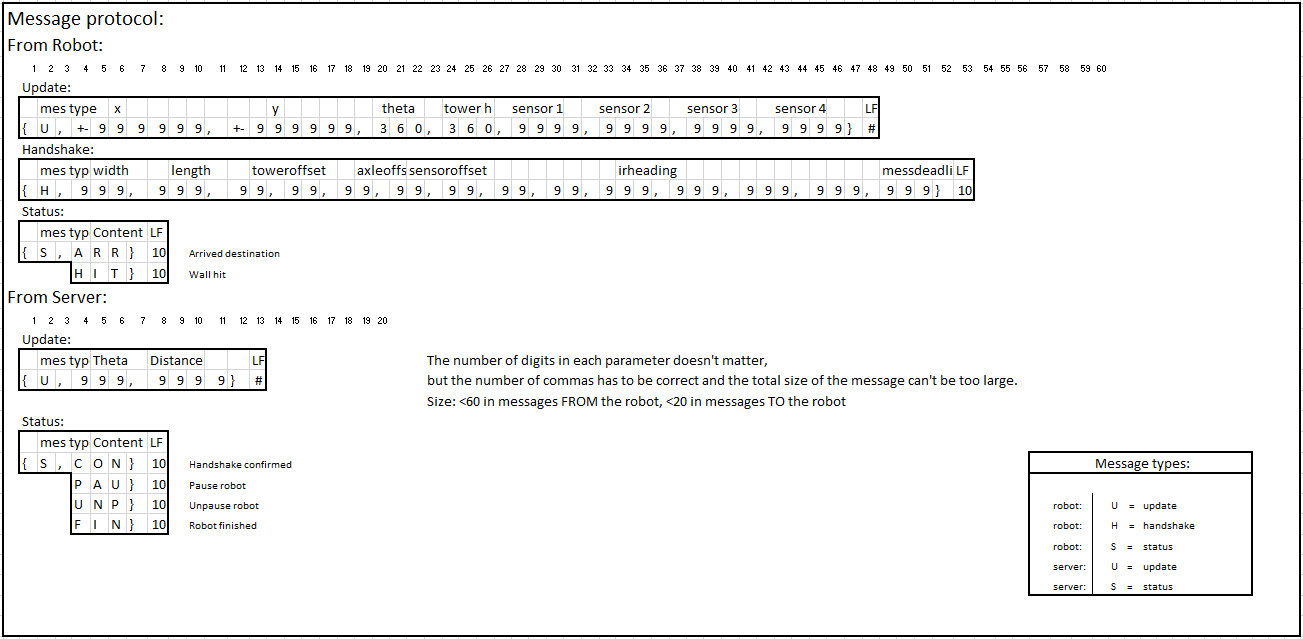
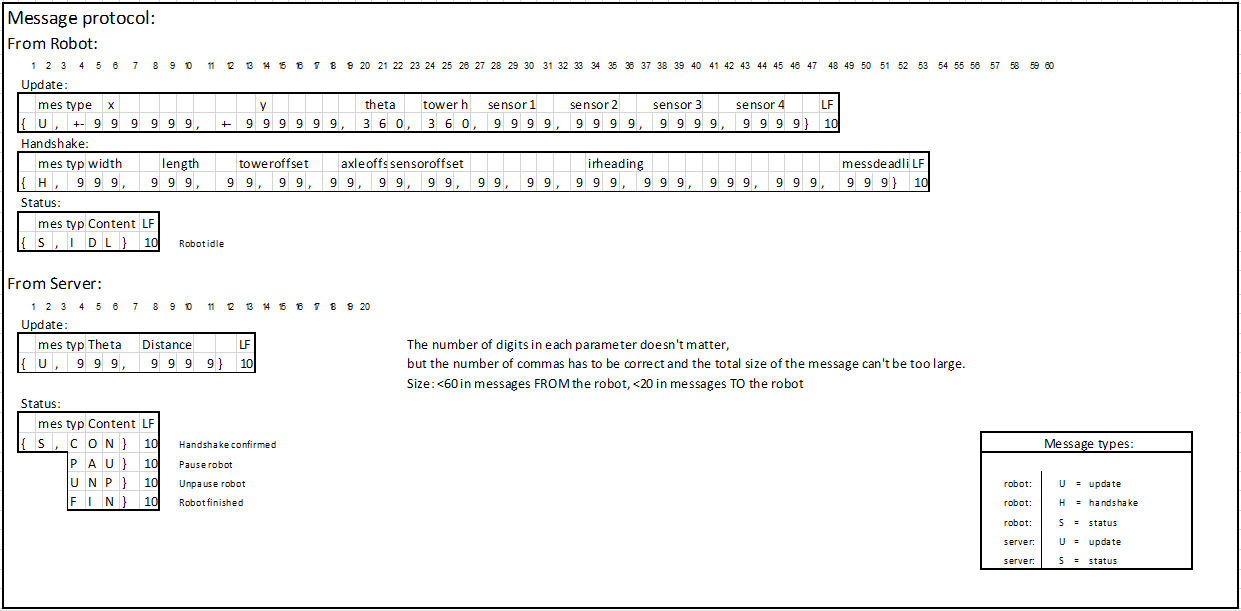
message protocol

diff --git a/Chapters/6_WirelessCommunication/2_MessageProtocol.tex b/Chapters/6_WirelessCommunication/2_MessageProtocol.tex
@@ -1,5 +1,5 @@
 \section{Creating the Message Protocol}
-When implementing the communication between the physical robots and the server software, the groups realized the need for a general message protocol. The message protocol should be complex enough to consist of different message types, such as updates and handshakes, and variables, such as parameters for physical size, as well as being simple enough to be easy to understand and implement in software.
+When implementing the communication between the physical robots and the server software, the groups realised the need for a general message protocol. The message protocol should be complex enough to consist of different message types, such as updates and handshakes, and variables, such as parameters for physical size, as well as being simple enough to be easy to understand and implement in software.
 
 The groups sat down and discussed which types of messages the protocol should implement, and what the message types should include of parameters. The message types and parameters were listed as shown in Table \ref{tab:messprotfromrob} and Table \ref{tab:messprotfromser}:
 
@@ -7,31 +7,31 @@ The groups sat down and discussed which types of messages the protocol should im
 \begin{center}
  \begin{tabular}{|l | l|} 
  \hline
- Message type       &	Parameters \\
+ Message type       &    Parameters \\
  \hline
  \hline
  From Robot: & \\
  \hline
  Handshake          &   Message type \\
- 					&	Physical robot width and length  \\
+                     &    Physical robot width and length  \\
                     &   Tower offset from center of the robot\\
-                    &	Axle offset lengthwise \\
-                    &	Sensor offset from tower center \\
-                    &	Initial sensor heading \\
+                    &    Axle offset lengthwise \\
+                    &    Sensor offset from tower center \\
+                    &    Initial sensor heading \\
  \hline
- Update  			&   Message type \\
+ Update              &   Message type \\
                     &   Robot position (x,y) \\
                     &   Orientation \\
                     &   Tower heading \\
-                    &	Sensor values \\
+                    &    Sensor values \\
  \hline
- Status		        &   Message type \\
- 					&	Destination arrived \\
+ Status                &   Message type \\
+                     &    Destination arrived \\
                     &   Wall hit \\
  \hline
  \end{tabular}
 \end{center}
-\caption{Criterion for functionality in the \acrshort{gui}}
+\caption{Sketched list over messages from the Robot}
 \label{tab:messprotfromrob}
 \end{table}
 
@@ -44,27 +44,29 @@ The groups sat down and discussed which types of messages the protocol should im
  \hline
  From Server: & \\
  \hline
- Update  			&   Message type \\
+ Update              &   Message type \\
                     &   Orientation \\
                     &   Distance \\
  \hline
- Status		        &   Hanshake confirmed \\
+ Status                &   Hanshake confirmed \\
                     &   Pause robot \\
                     &   Unpause robot \\
                     &   Robot finished \\
  \hline
 \end{tabular}
 \end{center}
-\caption{Criterion for functionality in the \acrshort{gui}}
+\caption{Sketched list over messages from the Server}
 \label{tab:messprotfromser}
 \end{table}
 
-At first the group developed a message protocol using JSON-structure. The benefit of using JSON to structure a message protocol, is that it is easy to understand just by reading the message as well as the order of the parameters does not have to be specified. The update message from server in JSON-structure was defined as:
+At first, the group developed a message protocol using JSON-structure. The benefit of using JSON to structure a message protocol is that it is easy to understand just by reading the message as well as the order of the parameters does not have to be specified. The update message from server in JSON-structure was defined as:
 
 \{``Update'':[\{``Orientation'':``60''\},\{``Distance'':``100''\}]\}
 
-Due to some problems with the nRF51-dongle, see elaboration in Section \ref{sec:wirelesscomresult}, the group converted the message protocol from JSON-structure to a more compact designed structure. The update message was then defined as:
+Due to some problems with the nRF51-server software not being able to receive messages with a size greater than 60 Bytes, and the nrf51-peripheral not being able to receive messages greater than 20 Bytes, the group converted the message protocol from JSON-structure to a more compact designed structure. The update message (from server) was then defined as:
 
 \{U,60,100\}
 
-The remaining message types were defined in the same manner.
+The remaining message types were defined in the same manner. Figure \ref{fig:messprot}, and Appendix BLABLA, presents all message types and parameters implemented in the message protocol. As can be seen, some of the message content is adjusted from what was originally planned in Table \ref{tab:messprotfromrob} and \ref{tab:messprotfromser}. \task{appendixxxx}
+
+\mabox{1}{Results/Meldingsprotokoll}{Message Protocol}{fig:messprot}
